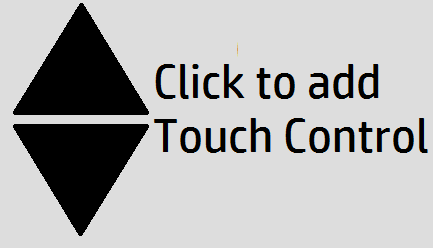
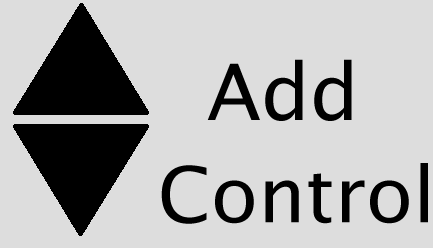
control description change, cancel to orange color

Changed region(s): [[0.3303, 0.2258, 0.9908, 0.621], [0.3603, 0.6492, 0.9908, 0.9032]]

diff --git a/freshglassapp/src/pages/EditPage.js b/freshglassapp/src/pages/EditPage.js
@@ -43,12 +43,13 @@ var EditPage = function (window, previousPage, switchPages) {
 var red = "#DB4C3F";
 var blue = "#4682EA";
 var yellow = "#FDBA35";
+var orange = "#FF7F00";
 var green = "#67AF4B";
 var purple = "#AF6DC5";
 var darkBlue = "#43489B";
 
 var applyButtonSkin = new Skin({fill: green, stroke:"black"});
-var cancelButtonSkin = new Skin({fill: blue, stroke:"black"});
+var cancelButtonSkin = new Skin({fill: orange, stroke:"black"});
 var clearButtonSkin = new Skin({fill: red, stroke:"black"});
 
 var tran = new Skin({fill: "#00FFFFFF"});
@@ -232,7 +233,8 @@ EditPage.prototype.getContainer = function () {
             	if (page.controlID != null){}
                 else{
                     page.controlID = page.windowCopy.addImage(controluri, 130, 130, 25, 25);
-                    trace(page.controlID + "\n");
+                    //trace(page.controlID + "\n");
+                    page.windowCopy.clearImages = false;
                 }
                 /*
                 if (page.windowCopy.control.added == false){

diff --git a/freshglassapp/src/pages/PresetsPage.js b/freshglassapp/src/pages/PresetsPage.js
@@ -118,7 +118,7 @@ PresetsPage.prototype.getContainer = function () {
         behavior: Object.create(BUTTONS.ButtonBehavior.prototype, {
             onTap: { value: function (button) {
                 //apply the image to the window;
-                    var scale = .9;
+                    var scale = .5;
                     var url = valentineURL;
                     var height = Window.PREVIEW_HEIGHT * scale;
                     var width = Window.PREVIEW_WIDTH * scale;

diff --git a/freshglassapp/src/pages/CameraRoll.js b/freshglassapp/src/pages/CameraRoll.js
@@ -77,7 +77,7 @@ CameraRoll.prototype.getContainer = function () {
         	skin: new Skin({fill: darkBlue}),
         	behavior: Object.create(BUTTONS.ButtonBehavior.prototype, {
             	onTap: { value: function (button) {
-                	var scale = 0.5;
+                	var scale = 0.4;
                 	var url = imageBase + imageURLs[curImage];
                 	var height = Window.PREVIEW_HEIGHT * scale;
                 	var width = Window.PREVIEW_WIDTH * scale;

diff --git a/freshglassdevice/simulator/temperature.js b/freshglassdevice/simulator/temperature.js
@@ -20,7 +20,7 @@ exports.configure = function (config) {
                 maxValue: 100.0,	//Why is this here twice?
                 minValue: 0.0,
                 maxValue: 110.0,
-                value: 32.0,
+                value: 50.0,
                 defaultControl: PinsSimulators.SLIDER
             }),
         ]

diff --git a/freshglassdevice/simulator/brightness.js b/freshglassdevice/simulator/brightness.js
@@ -18,7 +18,7 @@ exports.configure = function (config) {
                 dataType: "float",
                 minValue: 0.0,
                 maxValue: 1.0,
-                value: 0.0,
+                value: 1.0,
                 defaultControl: PinsSimulators.SLIDER
             }),
         ]
